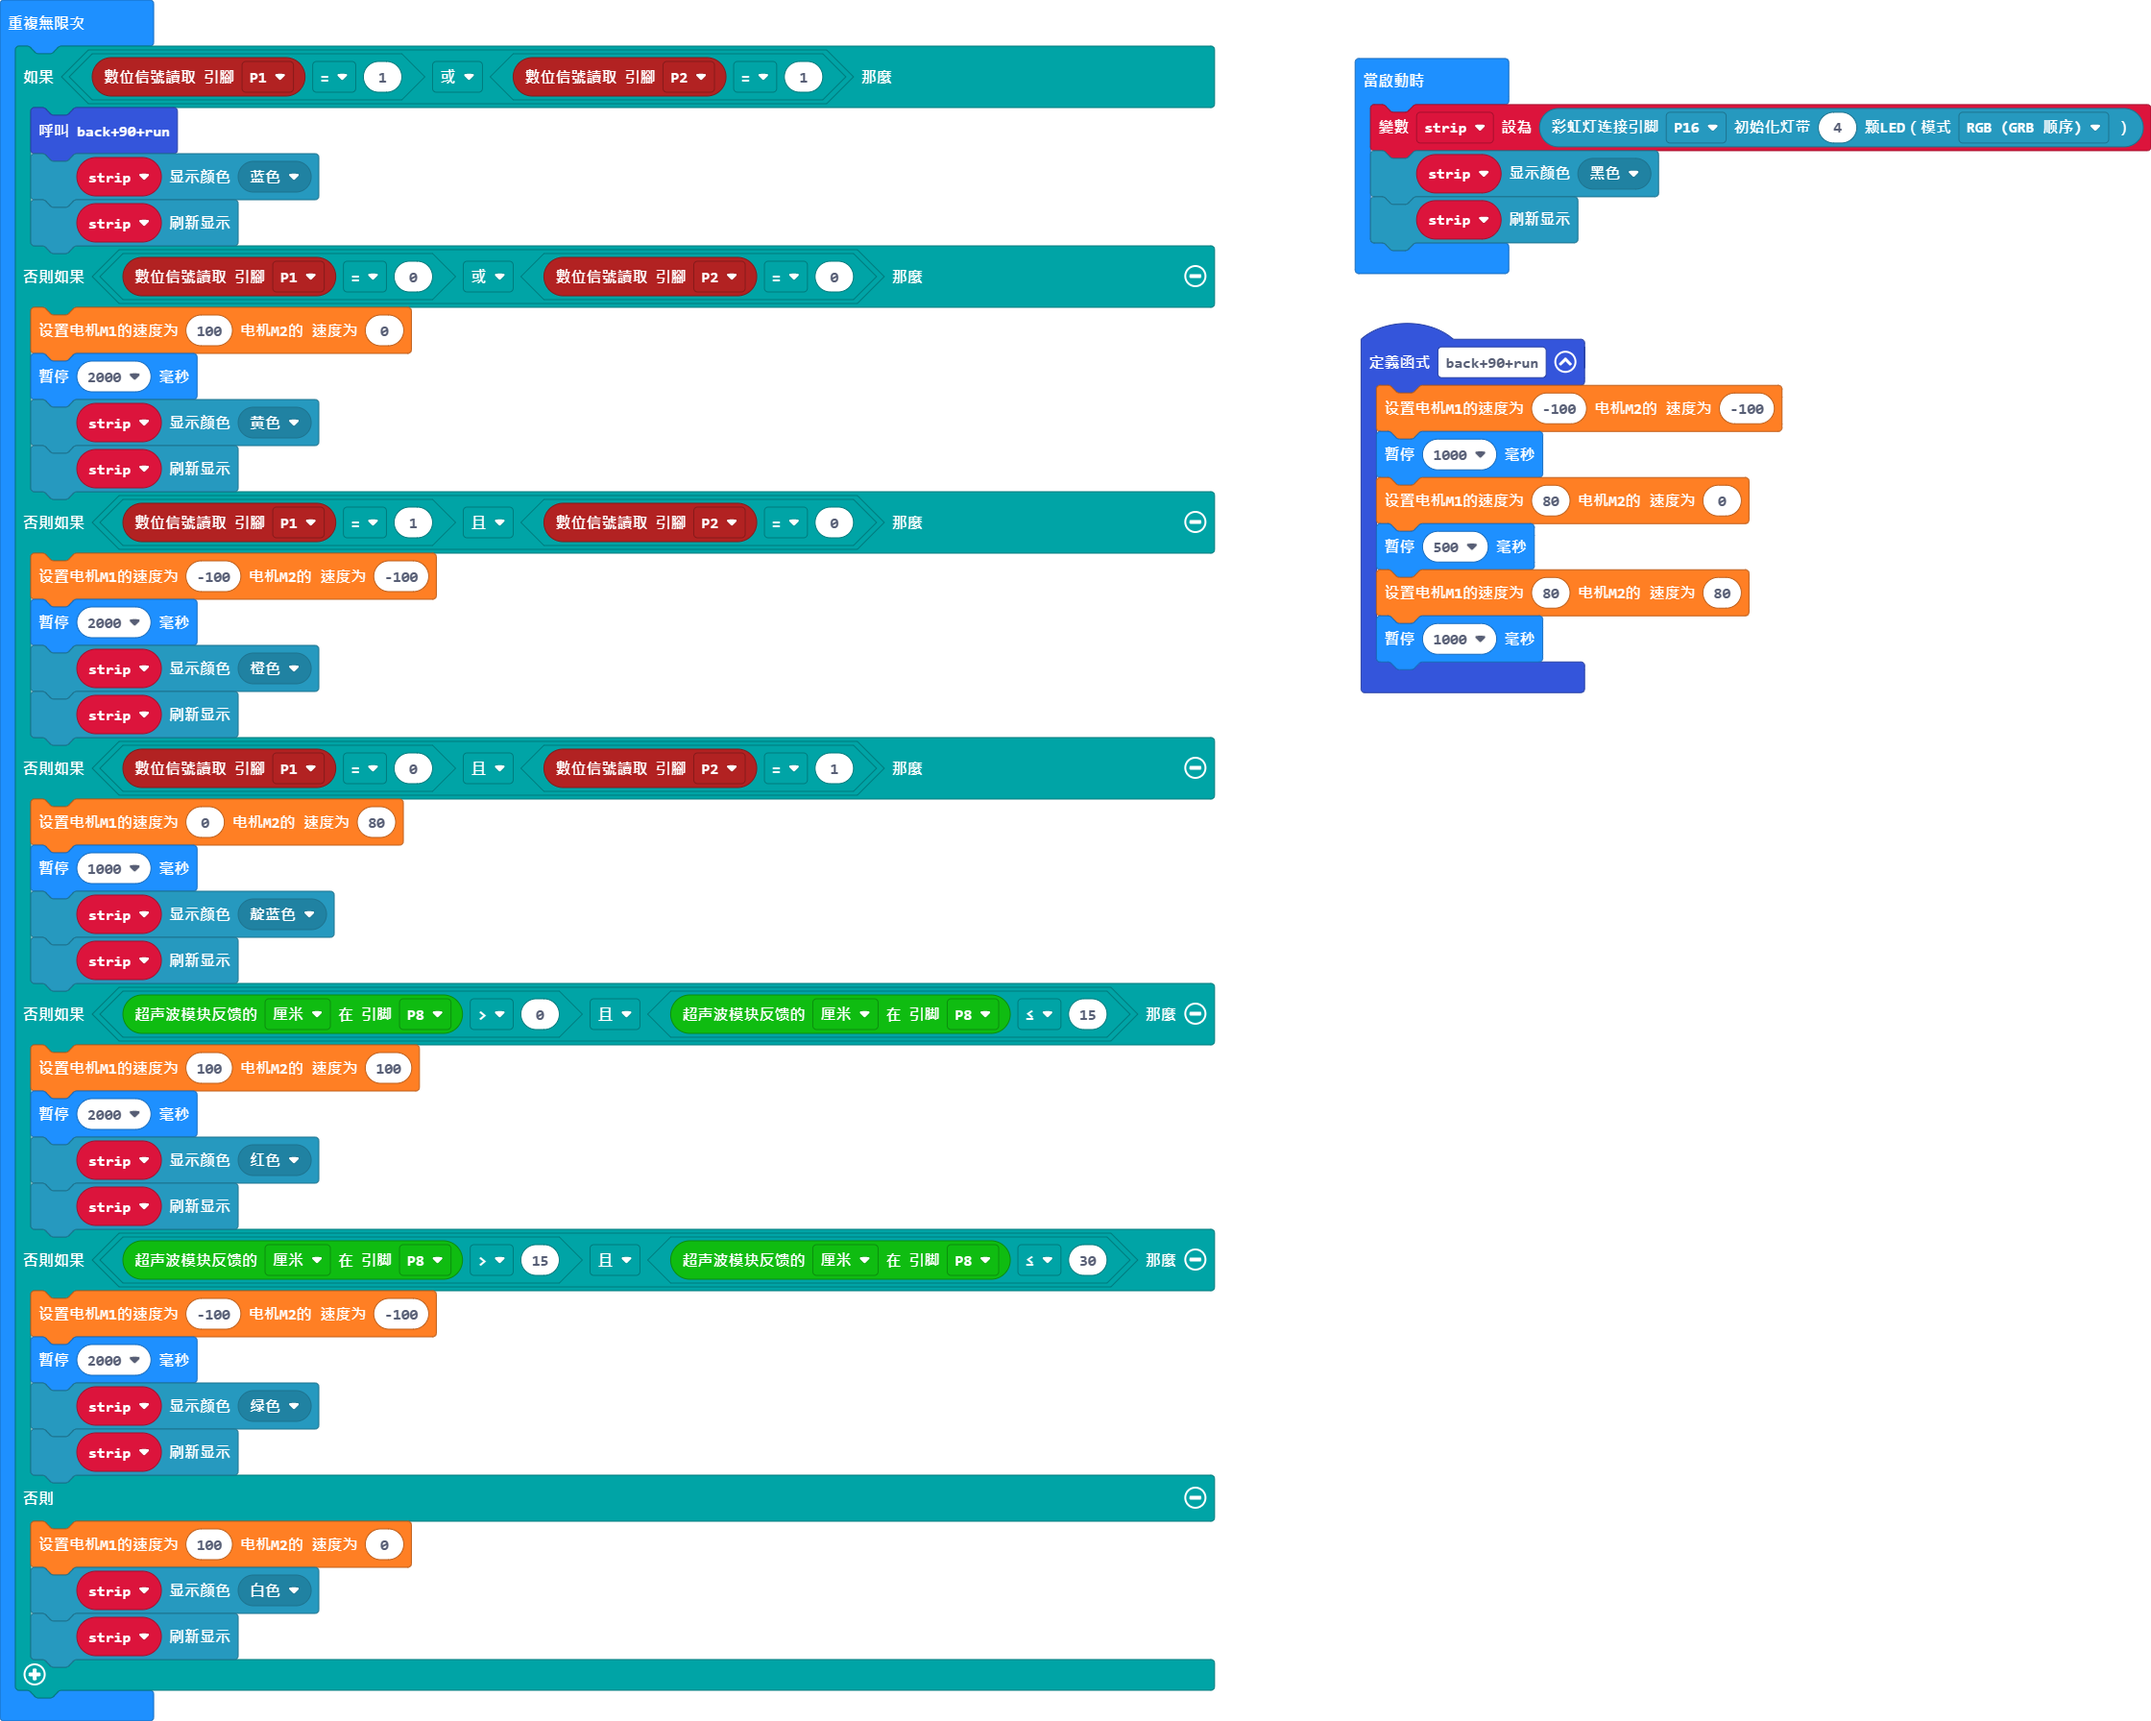
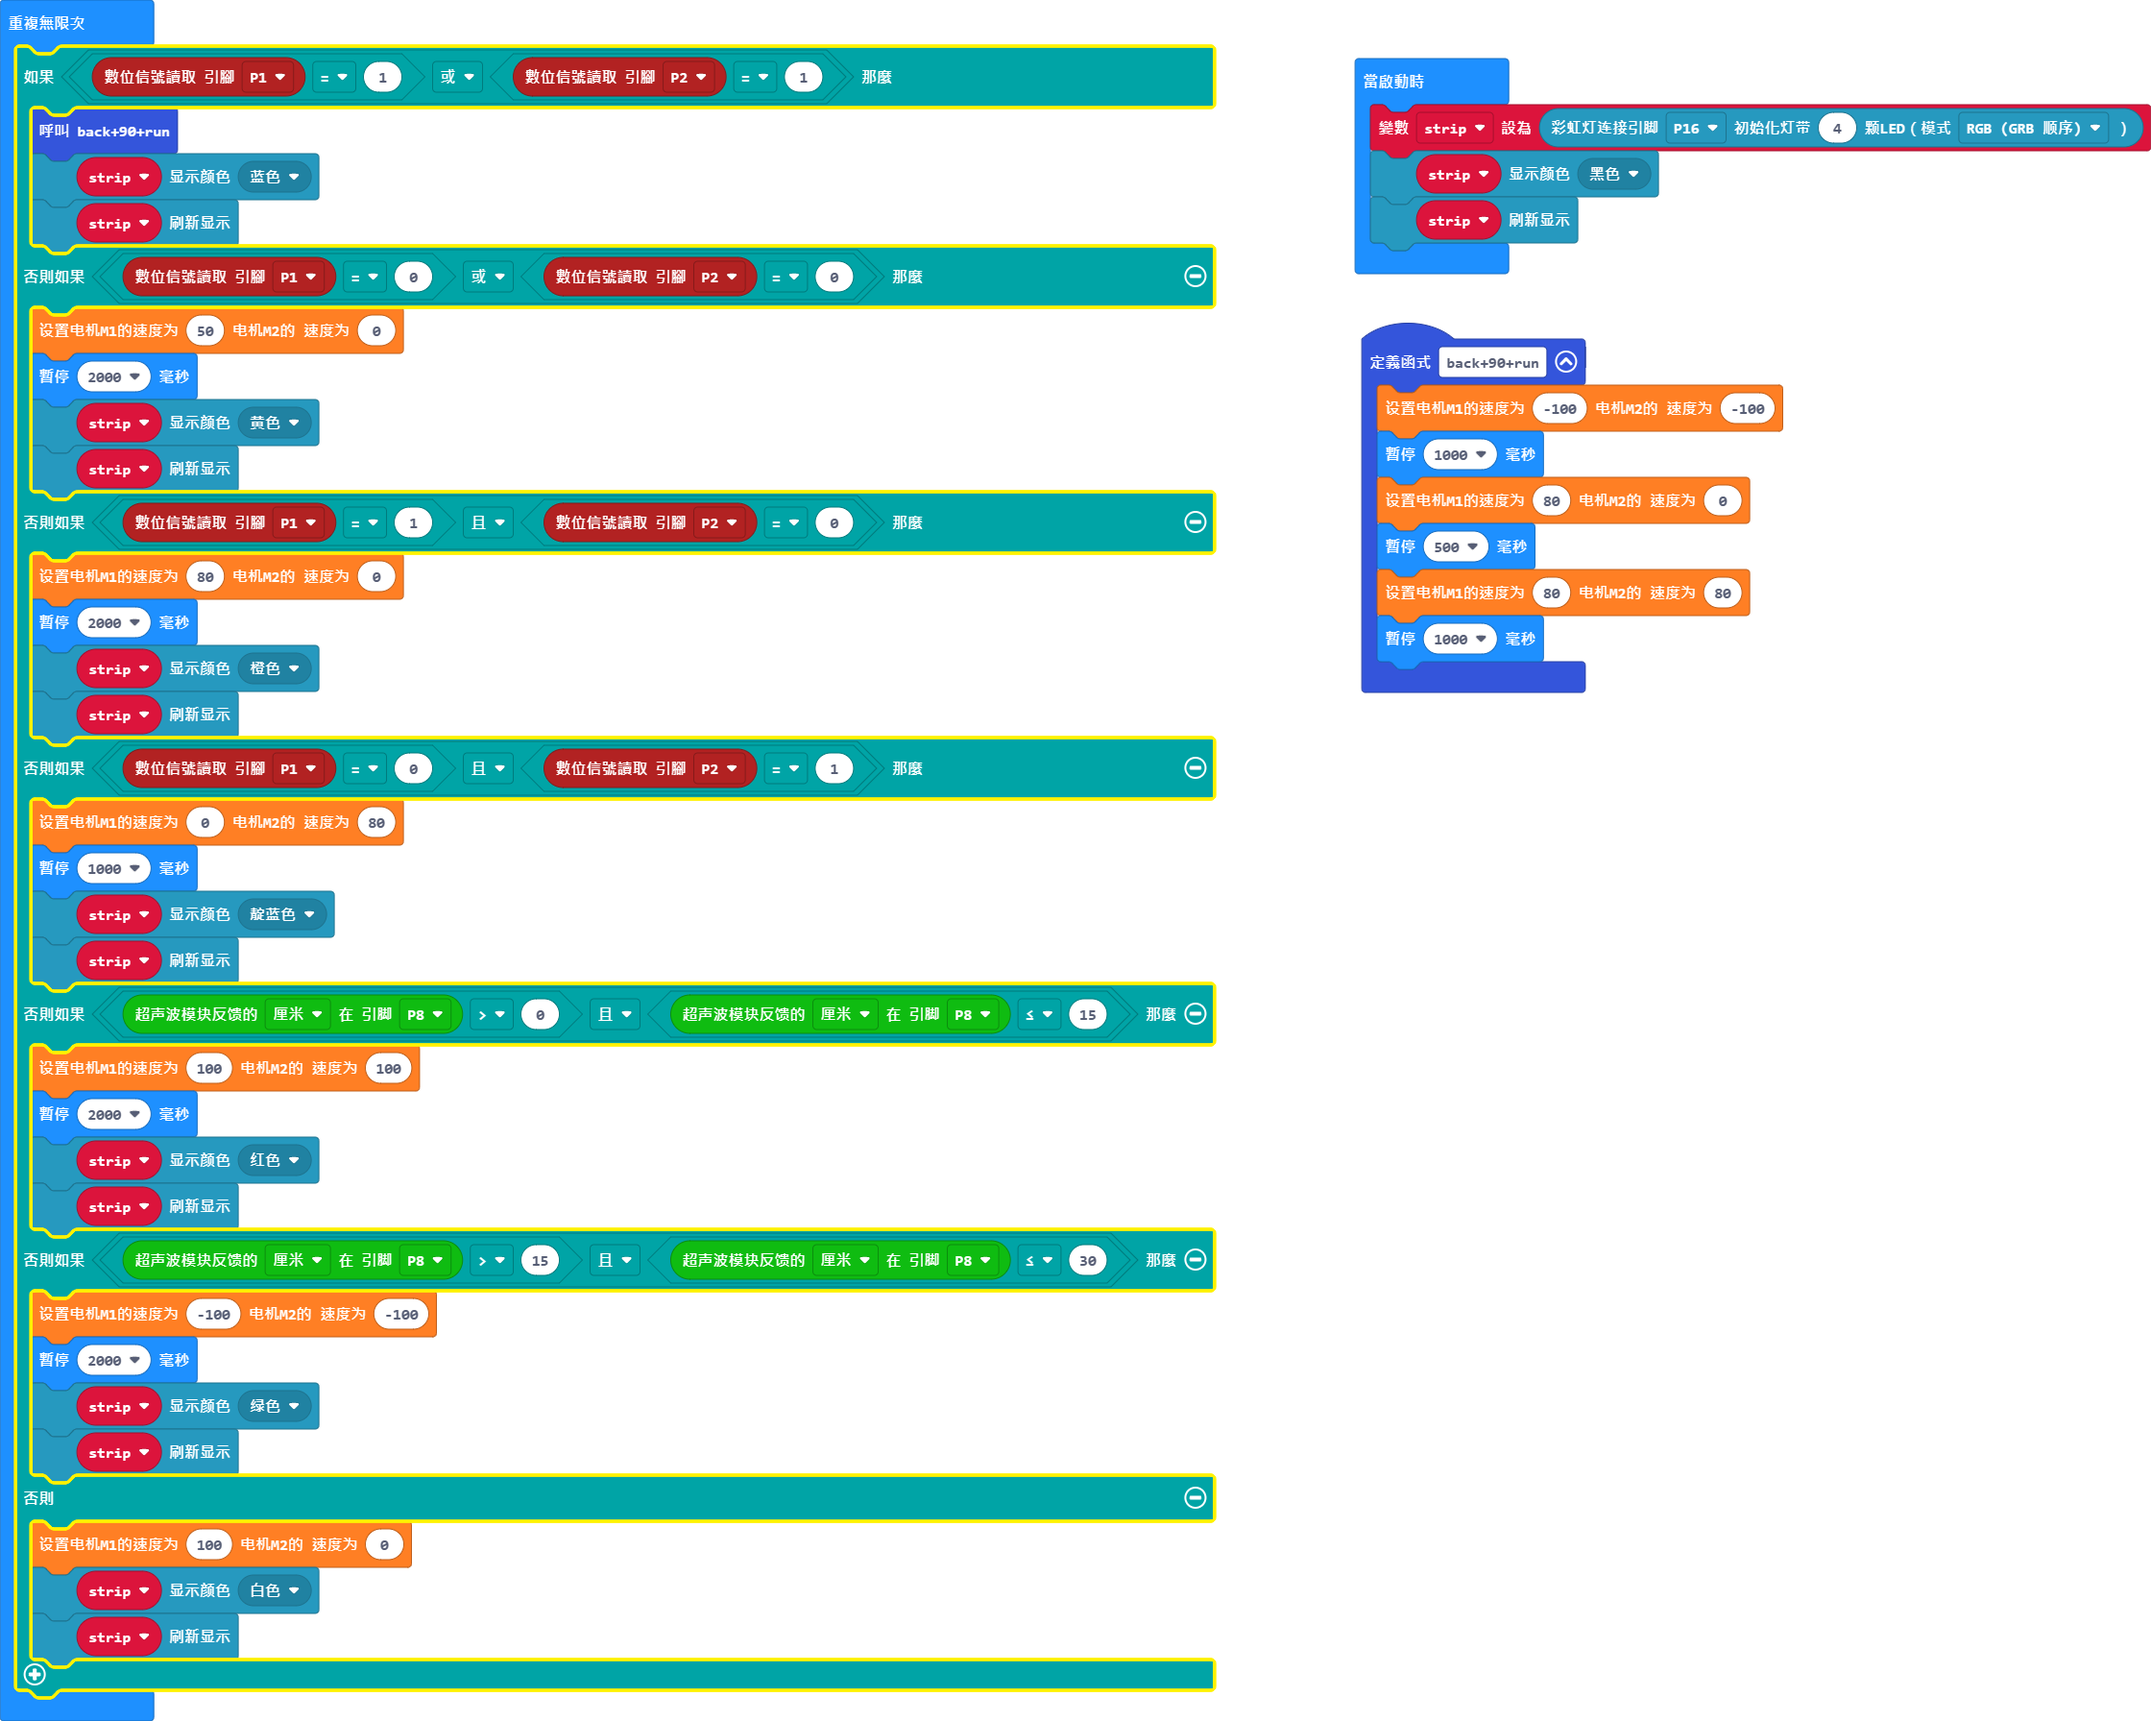
更新 main.blocks, main.ts

diff --git a/main.ts b/main.ts
@@ -15,12 +15,12 @@ basic.forever(function () {
         strip.showColor(neopixel.colors(NeoPixelColors.Blue))
         strip.show()
     } else if (pins.digitalReadPin(DigitalPin.P1) == 0 || pins.digitalReadPin(DigitalPin.P2) == 0) {
-        wuKong.setAllMotor(100, 0)
+        wuKong.setAllMotor(50, 0)
         basic.pause(2000)
         strip.showColor(neopixel.colors(NeoPixelColors.Yellow))
         strip.show()
     } else if (pins.digitalReadPin(DigitalPin.P1) == 1 && pins.digitalReadPin(DigitalPin.P2) == 0) {
-        wuKong.setAllMotor(-100, -100)
+        wuKong.setAllMotor(80, 0)
         basic.pause(2000)
         strip.showColor(neopixel.colors(NeoPixelColors.Orange))
         strip.show()
